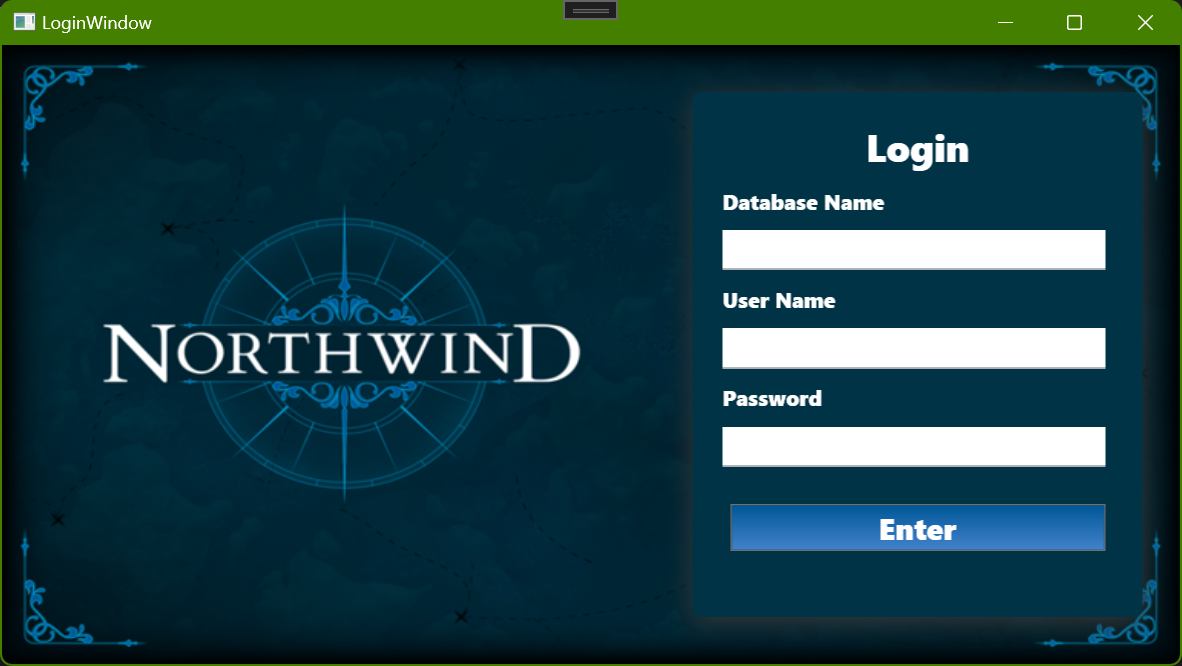
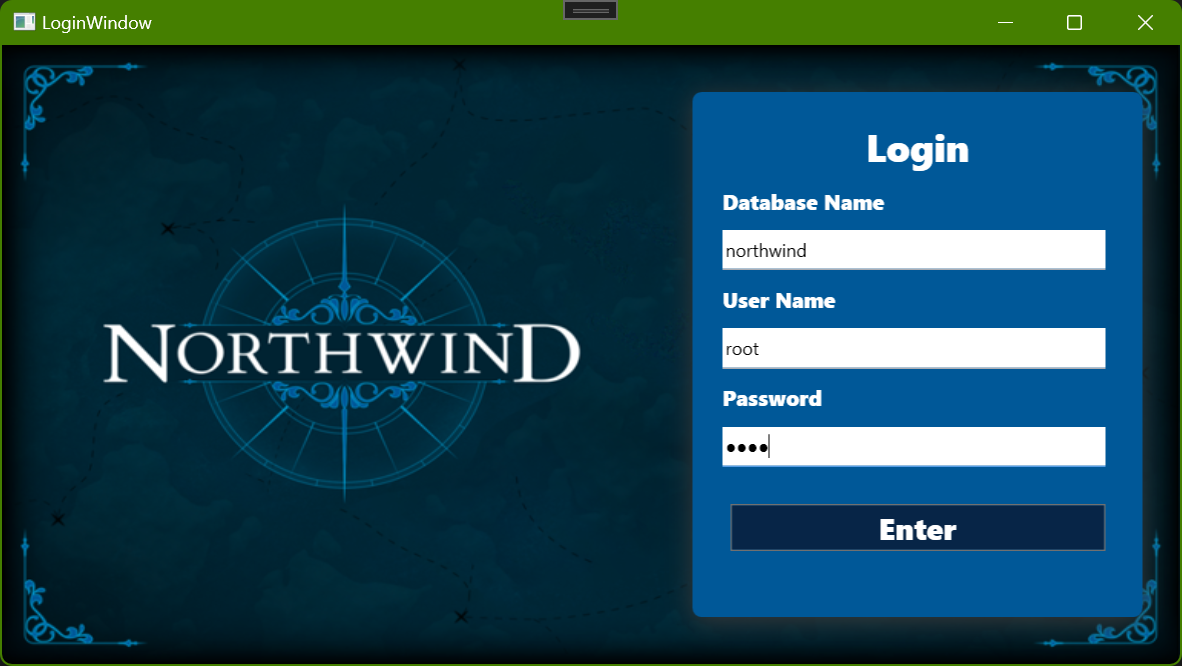
update 1.0

Changed region(s): [[0.5787, 0.1201, 0.9746, 0.9309]]

diff --git a/DataBaseWPF/TableWindow.xaml b/DataBaseWPF/TableWindow.xaml
@@ -14,7 +14,27 @@
         </Grid.RowDefinitions>
 
         <!-- DataGrid -->
-        <DataGrid x:Name="dataGrid" AutoGenerateColumns="True"/>
+        <DataGrid x:Name="dataGrid" AutoGenerateColumns="True" AlternatingRowBackground="#E1E1E1" 
+          RowBackground="#FFFFFF" Foreground="#333333" BorderBrush="#CCCCCC">
+            <DataGrid.CellStyle>
+                <Style TargetType="DataGridCell">
+                    <Setter Property="BorderThickness" Value="0" />
+                    <Setter Property="Padding" Value="5" />
+                    <Setter Property="TextBlock.TextAlignment" Value="Center" />
+                </Style>
+            </DataGrid.CellStyle>
+            <DataGrid.ColumnHeaderStyle>
+                <Style TargetType="DataGridColumnHeader">
+                    <Setter Property="Background" Value="#0078D4" />
+                    <Setter Property="Foreground" Value="White" />
+                    <Setter Property="FontWeight" Value="Bold" />
+                    <Setter Property="HorizontalContentAlignment" Value="Center" />
+                    <Setter Property="BorderBrush" Value="#0078D4" />
+                    <Setter Property="BorderThickness" Value="0,0,1,1" />
+                    <Setter Property="Padding" Value="4" />
+                </Style>
+            </DataGrid.ColumnHeaderStyle>
+        </DataGrid>
 
         <!-- Menu -->
         <Grid Grid.Row="1">
@@ -27,13 +47,13 @@
             <Grid VerticalAlignment="Stretch" HorizontalAlignment="Stretch">
                 <StackPanel VerticalAlignment="Top" Orientation="Vertical">
                     <Button Content="Create" Click="CreateButton" FontFamily="Segoe UI Black" FontSize="14" Foreground="White" 
-                    Padding="5" Width="Auto" Background="#FF005898"/>
+            Padding="5" Width="Auto" Background="#FF00D509"/>
                     <Button Content="Read" Click="ReadButton" FontFamily="Segoe UI Black" FontSize="14" Foreground="White" 
-                    Padding="5" Width="Auto" Background="#FF005898"/>
+            Padding="5" Width="Auto" Background="#FF0286EF"/>
                     <Button Content="Update" Click="UpdateButton" FontFamily="Segoe UI Black" FontSize="14" Foreground="White" 
-                    Padding="5" Width="Auto" Background="#FF005898"/>
+            Padding="5" Width="Auto" Background="#FFE1CA00"/>
                     <Button Content="Delete" Click="DeleteButton" FontFamily="Segoe UI Black" FontSize="14" Foreground="White" 
-                    Padding="5" Width="Auto" Background="#FF005898"/>
+            Padding="5" Width="Auto" Background="#FFDA0F00"/>
                 </StackPanel>
             </Grid>
             
@@ -48,17 +68,18 @@
 
                         <TextBox x:Name="query" Padding="5" Height="Auto" />
                         <Button Content="Send" Click="SendButton" FontFamily="Segoe UI Black" FontSize="14" Foreground="White" 
-                        Padding="5" Width="Auto" Background="#FF0094FF" Grid.Column="1"/>
+                                Padding="5" Background="#0078D4" Grid.Column="1"/>
                     </Grid>
 
                     <Button Content="Mostrar 5 productos más vendidos" Click="FirstButton" FontFamily="Segoe UI Black" FontSize="14" Foreground="White" 
-                Padding="5" Height="Auto" Background="#FF005898"/>
+                            Padding="5" Height="Auto" Background="#FF868686"/>
                     <Button Content="Mostrar productos sin stock" Click="SecondButton" FontFamily="Segoe UI Black" FontSize="14" Foreground="White" 
-                Padding="5" Width="Auto" Background="#FF005898"/>
+                            Padding="5" Height="Auto" Background="#FF868686"/>
                     <Button Content="Mostrar 5 productos más caros" Click="ThirdButton" FontFamily="Segoe UI Black" FontSize="14" Foreground="White" 
-                Padding="5" Width="Auto" Background="#FF005898"/>
+                            Padding="5" Height="Auto" Background="#FF868686"/>
                 </StackPanel>
             </Grid>
+
         </Grid>
 
     </Grid>

diff --git a/DataBaseWPF/LoginWindow.xaml b/DataBaseWPF/LoginWindow.xaml
@@ -12,7 +12,7 @@
         <Image Source="img/northwind.png" Stretch="Fill" Height="auto" VerticalAlignment="Center" HorizontalAlignment="Left" Width="auto"/>
 
         <!-- Contenedor para los elementos -->
-        <Border Width="300" Height="350" Background="#FF003346" CornerRadius="6" HorizontalAlignment="Right" Margin="0,0,25,0">
+        <Border Width="300" Height="350" Background="#FF005898" CornerRadius="6" HorizontalAlignment="Right" Margin="0,0,25,0">
             <Border.Effect>
                 <DropShadowEffect BlurRadius="25" Direction ="-90" RenderingBias ="Quality" ShadowDepth ="3" Color ="Gray" />
             </Border.Effect>
@@ -46,8 +46,8 @@
                 <Button x:Name="LoginBtn" Content="Enter" FontFamily="Segoe UI Black" FontSize="20" Foreground="White" Margin="0,25" Height="31" Width="250" Click="LoginButton">
                     <Button.Background>
                         <LinearGradientBrush EndPoint="0.5,1" StartPoint="0.5,0">
-                            <GradientStop Color="#FF005898"/>
-                            <GradientStop Color="#FF4282CA" Offset="1"/>
+                            <GradientStop Color="#FF072547"/>
+                            <GradientStop Color="#FF072547" Offset="1"/>
                         </LinearGradientBrush>
                     </Button.Background>
                 </Button>
